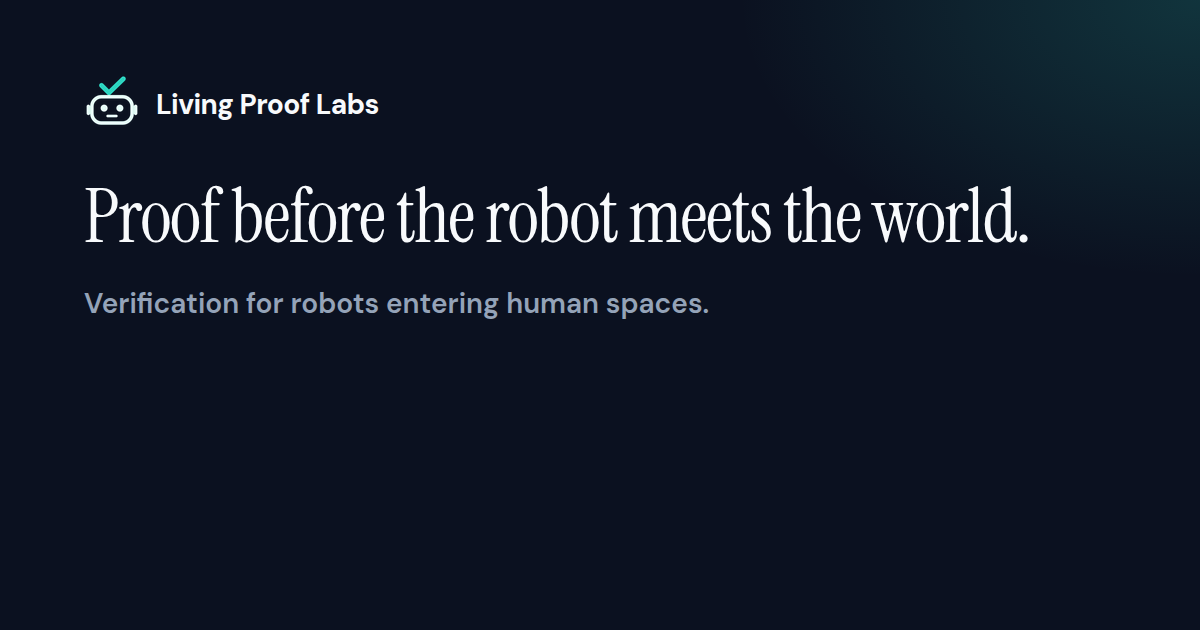
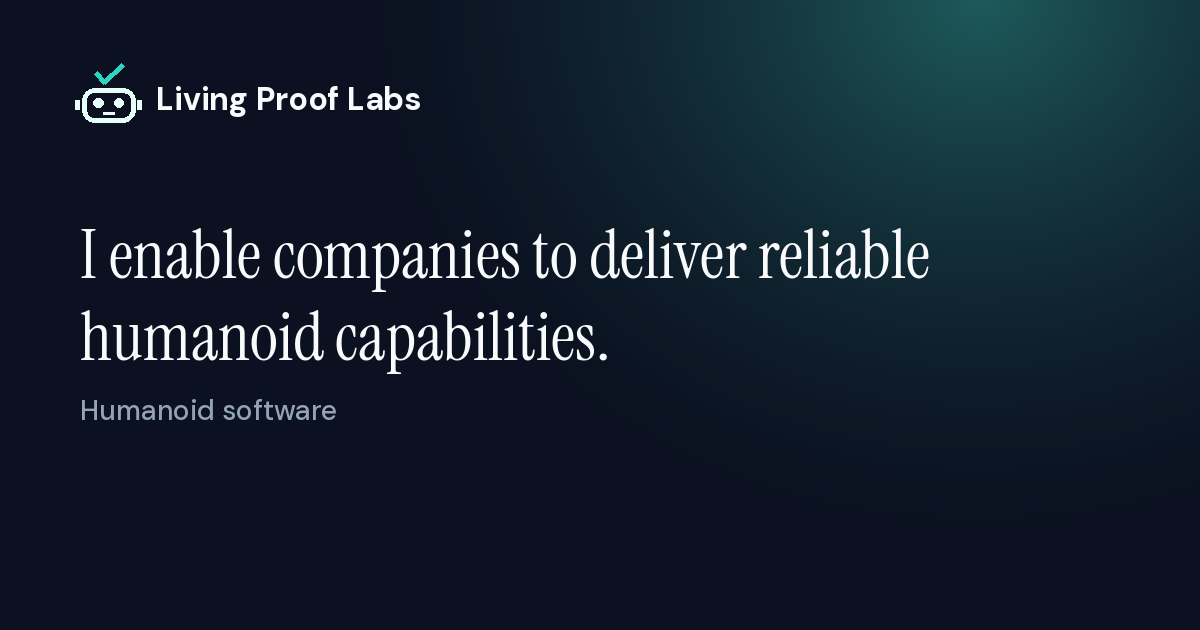
feat: lead the homepage with reliable humanoid capabilities
Consulting and partnership are engagement modes under that promise. Roboto, Foxglove, and Living Proof Verification share one tools line, and the social card matches the new headline.

Changed region(s): [[0.0617, 0.0, 0.925, 0.6032], [0.0617, 0.0905, 0.37, 0.2111], [0.0617, 0.6333, 0.2775, 0.6635]]

diff --git a/index.html b/index.html
@@ -3,22 +3,22 @@
   <head>
     <meta charset="utf-8" />
     <meta name="viewport" content="width=device-width, initial-scale=1" />
-    <title>Living Proof Labs | Verification consulting for humanoid software</title>
+    <title>Living Proof Labs | Reliable humanoid capabilities</title>
     <meta
       name="description"
-      content="Aaron-led verification consulting for humanoid software. Clear behaviors, repeatable tests, and a report you can read—including the failures."
+      content="I enable companies to deliver reliable humanoid capabilities. Partnership and consulting for humanoid software teams, with evidence you can ship on."
     />
     <meta
       name="keywords"
-      content="verification consulting, humanoid software, robot verification, simulation testing, Living Proof Labs, Aaron Roller"
+      content="humanoid capabilities, humanoid software, robot integration, Living Proof Labs, Aaron Roller"
     />
     <meta name="author" content="Living Proof Labs" />
     <meta name="robots" content="index, follow" />
     <link rel="canonical" href="https://livingprooflabs.com/" />
-    <meta property="og:title" content="Living Proof Labs | Verification consulting" />
+    <meta property="og:title" content="I enable companies to deliver reliable humanoid capabilities." />
     <meta
       property="og:description"
-      content="Aaron-led verification consulting. Clear behaviors, repeatable tests, and a report you can read—including the failures."
+      content="Aaron Roller partners with humanoid software teams on integration, operations, and evidence you can ship on."
     />
     <meta property="og:type" content="website" />
     <meta property="og:url" content="https://livingprooflabs.com/" />
@@ -28,18 +28,18 @@
     <meta property="og:image:height" content="630" />
     <meta
       property="og:image:alt"
-      content="Living Proof Labs. Proof before the robot meets the world."
+      content="Living Proof Labs. I enable companies to deliver reliable humanoid capabilities."
     />
     <meta name="twitter:card" content="summary_large_image" />
-    <meta name="twitter:title" content="Living Proof Labs | Verification consulting" />
+    <meta name="twitter:title" content="I enable companies to deliver reliable humanoid capabilities." />
     <meta
       name="twitter:description"
-      content="Aaron-led verification consulting. Clear behaviors, repeatable tests, and a report you can read—including the failures."
+      content="Aaron Roller partners with humanoid software teams on integration, operations, and evidence you can ship on."
     />
     <meta name="twitter:image" content="https://livingprooflabs.com/assets/og.png" />
     <meta
       name="twitter:image:alt"
-      content="Living Proof Labs. Proof before the robot meets the world."
+      content="Living Proof Labs. I enable companies to deliver reliable humanoid capabilities."
     />
     <meta name="theme-color" content="#0f172a" media="(prefers-color-scheme: dark)" />
     <meta name="theme-color" content="#f8fafc" media="(prefers-color-scheme: light)" />
@@ -77,7 +77,8 @@
         <button class="nav-toggle" type="button" aria-expanded="false" aria-controls="primary-nav" hidden>Menu</button>
         <nav id="primary-nav" class="primary-nav" aria-label="Primary">
           <ul class="nav-list">
-            <li><a href="#engagement">Engagement</a></li>
+            <li><a href="#engage">Engage</a></li>
+            <li><a href="#engagement">Example</a></li>
             <li><a href="#how">How it runs</a></li>
             <li><a href="#report">Report</a></li>
             <li><a href="#scope">Scope</a></li>
@@ -92,14 +93,17 @@
       <section class="hero">
         <div class="container hero-grid">
           <div class="hero-copy">
-            <p class="eyebrow">Verification consulting · Humanoid software</p>
-            <h1>Know what works before you ship.</h1>
+            <p class="eyebrow">Living Proof Labs · Humanoid software</p>
+            <h1>I enable companies to deliver reliable humanoid capabilities.</h1>
             <p class="lead">
-              Aaron-led verification consulting. Clear behaviors, repeatable tests, a report you can read—including the failures.
+              Aaron Roller partners with humanoid software teams on integration, operations, and evidence you can ship on—before a release or pilot. Over 6 years of software integration and operations for mobile inspection robots.
+            </p>
+            <p class="engage-line">
+              We engage through partnership when open tooling is part of the solution, and through deeper consulting when the work stays proprietary.
             </p>
             <div class="hero-actions">
               <a class="button primary" href="#contact">Start a conversation</a>
-              <a class="button ghost" href="https://docs.livingprooflabs.com/livingproof-verification/">See a live report</a>
+              <a class="button ghost" href="https://docs.livingprooflabs.com/livingproof-verification/">See an example report</a>
             </div>
             <div class="accountability">
               <picture>
@@ -113,9 +117,9 @@
               </picture>
               <p>
                 Led by
-                <a href="https://www.linkedin.com/in/rolleraaron/" rel="me noopener noreferrer">Aaron Roller</a>—previously
-                Head of Software Infrastructure and Reliability at ANYbotics; earlier Airtonomy, AutoModality, and Cruise.
-                Supported by a team of specialized agents and open tools. Aaron reviews every engagement report.
+                <a href="https://www.linkedin.com/in/rolleraaron/" rel="me noopener noreferrer">Aaron Roller</a>—over
+                6 years of software integration and operations for mobile inspection robots. Previously Head of Software Infrastructure and Reliability at ANYbotics; earlier Airtonomy, AutoModality, and Cruise.
+                Supported by a specialized agent team and open tools. Aaron reviews every engagement.
               </p>
             </div>
           </div>
@@ -137,21 +141,40 @@
               </video>
               <figcaption id="hero-video-caption">
                 <span>Snapshot recorded 1 Nov 2026, spec v1.5.0. The clip includes failed runs. Neither controller clears the bar in this recording.</span>
-                <a class="text-link" href="https://docs.livingprooflabs.com/livingproof-verification/">See the live report</a>
+                <a class="text-link" href="https://docs.livingprooflabs.com/livingproof-verification/">See the example report</a>
               </figcaption>
             </figure>
           </div>
         </div>
       </section>
 
-      <section id="engagement" class="section" aria-labelledby="engagement-heading">
+      <section id="engage" class="section" aria-labelledby="engage-heading">
+        <div class="container">
+          <h2 id="engage-heading">How we engage</h2>
+          <div class="card-grid two">
+            <article class="card">
+              <h3>Partnership</h3>
+              <p>Build with you when open-source tooling, including Living Proof Verification™ where it fits, is part of the solution.</p>
+            </article>
+            <article class="card">
+              <h3>Consulting</h3>
+              <p>Deeper engagement when the work stays proprietary to your stack.</p>
+            </article>
+          </div>
+          <p class="proof-means">
+            Both deliver the same outcome: reliable software for intelligent humanoids, with evidence for the behaviors that matter.
+          </p>
+        </div>
+      </section>
+
+      <section id="engagement" class="section muted" aria-labelledby="engagement-heading">
         <div class="container">
           <p class="eyebrow">Example engagement</p>
           <p class="field-label">Release question</p>
           <h2 id="engagement-heading">Does this controller still walk a hallway under our stated conditions after today’s software change?</h2>
           <p class="field-label">Problem</p>
           <p class="section-intro">
-            A humanoid software team needs evidence for a specific behavior before a release or pilot—not a demo reel.
+            A humanoid software team needs a partner who helps ship intelligence with evidence—not a demo reel.
           </p>
           <div class="card-grid three">
             <article class="card">
@@ -166,6 +189,7 @@
               <h3>We do</h3>
               <ul>
                 <li>Agree behaviors and the success bar</li>
+                <li>Integrate against real constraints</li>
                 <li>Run repeatable simulation missions</li>
                 <li>Preserve evidence and compare it to a versioned baseline</li>
                 <li>Recommend fixes, then re-run to show what changed</li>
@@ -194,9 +218,9 @@
         </div>
       </section>
 
-      <section id="how" class="section muted" aria-labelledby="how-heading">
+      <section id="how" class="section" aria-labelledby="how-heading">
         <div class="container">
-          <h2 id="how-heading">How it runs</h2>
+          <h2 id="how-heading">How an engagement runs</h2>
           <ol class="steps compact">
             <li>
               <span class="step-num">1</span>
@@ -208,8 +232,8 @@
             <li>
               <span class="step-num">2</span>
               <div>
-                <h3>Repeatable tests</h3>
-                <p>Run the same simulation missions and keep the evidence.</p>
+                <h3>Integrate and test</h3>
+                <p>Integrate against real constraints, then run the same missions and keep the evidence.</p>
               </div>
             </li>
             <li>
@@ -228,20 +252,20 @@
             </li>
           </ol>
           <p class="proof-means">
-            <strong>Proof</strong> means evidence for specific behaviors under stated conditions—not a claim the robot is ready or safe.
+            <strong>Evidence</strong> means specific behaviors under stated conditions—not a claim the robot is ready or safe.
           </p>
         </div>
       </section>
 
       <section id="report" class="section proof-band" aria-labelledby="report-heading">
         <div class="container">
-          <p class="eyebrow">Current result</p>
+          <p class="eyebrow">Example of how we work</p>
           <h2 id="report-heading">
             Unitree G1 · walk-hallway · <span class="fail-mark">FAIL</span> 12/20 passed <span class="proof-need">(18 needed)</span>
           </h2>
           <p class="proof-note">Snapshot from CI on main—failures included.</p>
           <p class="proof-link">
-            <a class="text-link" href="https://docs.livingprooflabs.com/livingproof-verification/">See the live report</a>
+            <a class="text-link" href="https://docs.livingprooflabs.com/livingproof-verification/">See the example report</a>
           </p>
         </div>
       </section>
@@ -263,14 +287,7 @@
           </div>
           <p class="tool-row">
             <span class="label">Tools</span>
-            <a href="https://docs.livingprooflabs.com/">Living Proof Verification™</a>,
-            <a href="https://github.com/Living-Proof-Labs/livingproof-verification">GitHub</a>,
-            <a href="https://foxglove.dev/" rel="noopener noreferrer">Foxglove</a>,
-            <a href="https://www.roboto.ai/" rel="noopener noreferrer">Roboto</a>,
-            <span class="tool-fit">and your stack where it fits</span>
-          </p>
-          <p class="tool-note">
-            Living Proof Verification™ is the open foundation under the engagement. The docs and the source are public.
+            <a href="https://www.roboto.ai/" rel="noopener noreferrer">Roboto</a><span class="tool-sep" aria-hidden="true"> · </span><a href="https://foxglove.dev/" rel="noopener noreferrer">Foxglove</a><span class="tool-sep" aria-hidden="true"> · </span><a href="https://docs.livingprooflabs.com/">Living Proof Verification™</a><span class="tool-sep" aria-hidden="true"> · </span><span class="tool-fit">and your stack where it fits</span>
           </p>
         </div>
       </section>
@@ -280,7 +297,7 @@
           <div class="contact-block">
             <h2>Contact</h2>
             <p>
-              Tell us the behavior you need evidence for. The opening conversation scopes the engagement.
+              Tell us the capability you need to deliver. The opening conversation scopes partnership or consulting.
             </p>
             <!--email_off-->
             <p class="email-line">
@@ -307,7 +324,7 @@
           <a href="/terms.html">Terms</a>
           <a href="https://www.linkedin.com/company/living-proof-labs/" rel="noopener noreferrer">LinkedIn</a>
         </p>
-        <p class="footer-note">Verification consulting for humanoid software. Simulation today.</p>
+        <p class="footer-note">Reliable humanoid capabilities. Simulation today.</p>
       </div>
     </footer>
   </body>

diff --git a/styles/main.css b/styles/main.css
@@ -198,11 +198,22 @@ h1 {
   letter-spacing: -0.02em;
 }
 
+.hero h1 {
+  font-size: clamp(2.05rem, 3.7vw, 2.85rem);
+  line-height: 1.14;
+  max-width: 16em;
+}
+
 .lead {
   font-size: 1.15rem;
   color: var(--text-muted);
-  margin: 0 0 1.75rem;
-  max-width: 38rem;
+  margin: 0 0 0.85rem;
+  max-width: 40rem;
+}
+
+.engage-line {
+  margin: 0 0 1.5rem;
+  max-width: 40rem;
 }
 
 .hero-actions {
@@ -313,6 +324,10 @@ h3 {
 @media (min-width: 768px) {
   .card-grid.three {
     grid-template-columns: repeat(3, 1fr);
+  }
+
+  .card-grid.two {
+    grid-template-columns: 1fr 1fr;
   }
 }
 

diff --git a/404.html b/404.html
@@ -42,7 +42,8 @@
         <button class="nav-toggle" type="button" aria-expanded="false" aria-controls="primary-nav" hidden>Menu</button>
         <nav id="primary-nav" class="primary-nav" aria-label="Primary">
           <ul class="nav-list">
-            <li><a href="/#engagement">Engagement</a></li>
+            <li><a href="/#engage">Engage</a></li>
+            <li><a href="/#engagement">Example</a></li>
             <li><a href="/#how">How it runs</a></li>
             <li><a href="/#report">Report</a></li>
             <li><a href="/#scope">Scope</a></li>

diff --git a/privacy.html b/privacy.html
@@ -46,7 +46,8 @@
         <button class="nav-toggle" type="button" aria-expanded="false" aria-controls="primary-nav" hidden>Menu</button>
         <nav id="primary-nav" class="primary-nav" aria-label="Primary">
           <ul class="nav-list">
-            <li><a href="/#engagement">Engagement</a></li>
+            <li><a href="/#engage">Engage</a></li>
+            <li><a href="/#engagement">Example</a></li>
             <li><a href="/#how">How it runs</a></li>
             <li><a href="/#report">Report</a></li>
             <li><a href="/#scope">Scope</a></li>

diff --git a/terms.html b/terms.html
@@ -46,7 +46,8 @@
         <button class="nav-toggle" type="button" aria-expanded="false" aria-controls="primary-nav" hidden>Menu</button>
         <nav id="primary-nav" class="primary-nav" aria-label="Primary">
           <ul class="nav-list">
-            <li><a href="/#engagement">Engagement</a></li>
+            <li><a href="/#engage">Engage</a></li>
+            <li><a href="/#engagement">Example</a></li>
             <li><a href="/#how">How it runs</a></li>
             <li><a href="/#report">Report</a></li>
             <li><a href="/#scope">Scope</a></li>
